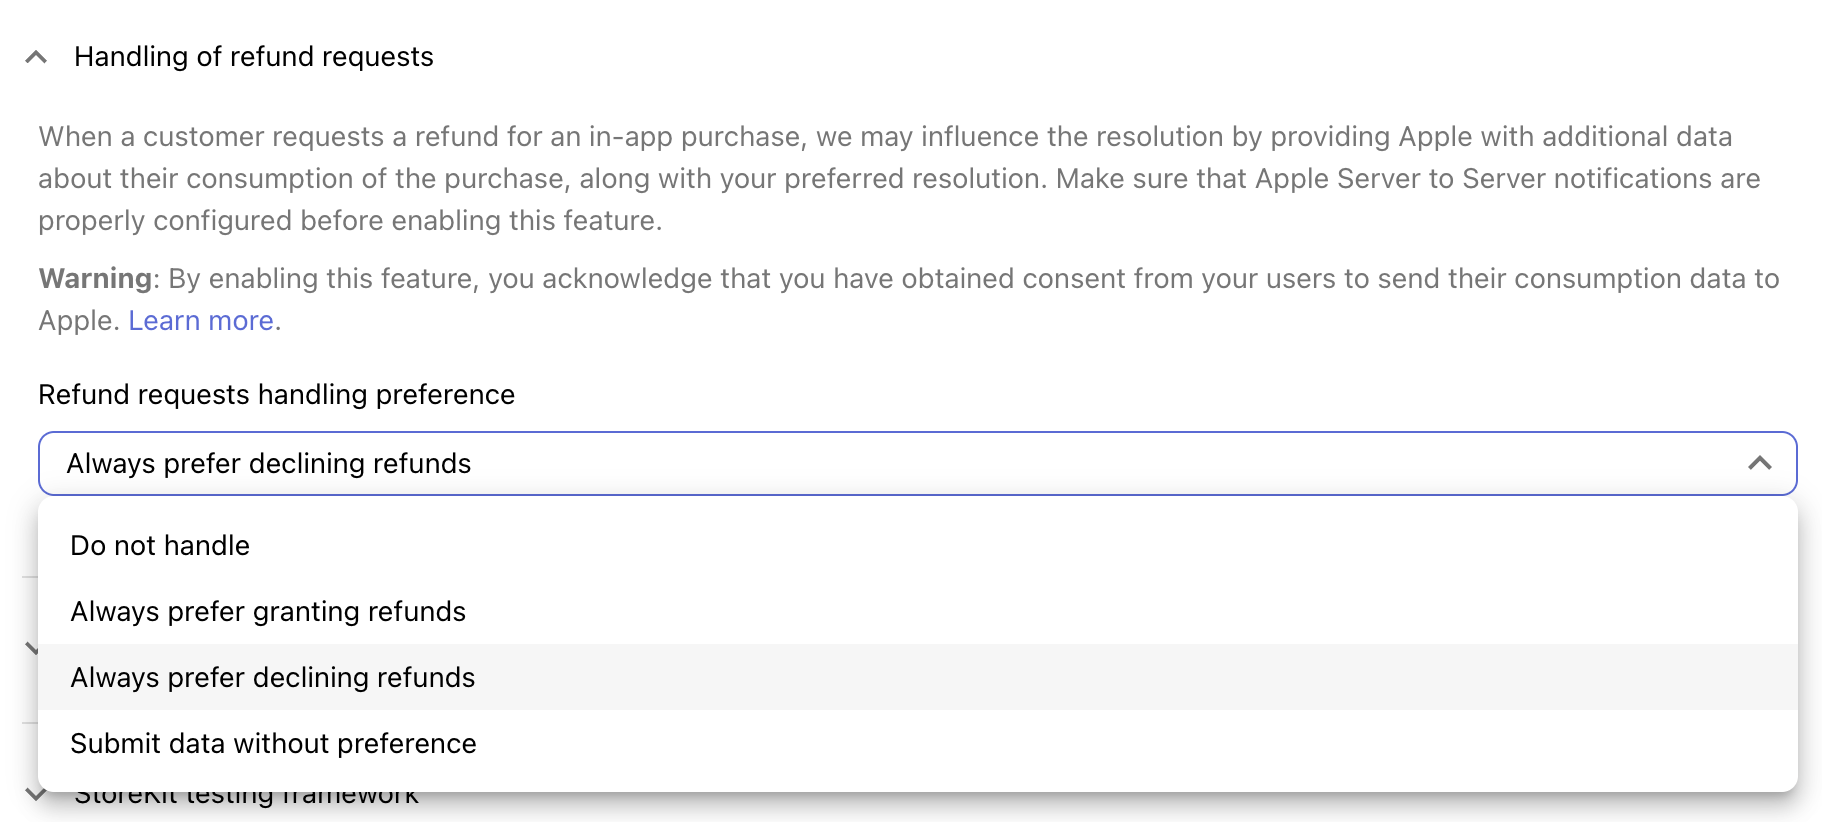
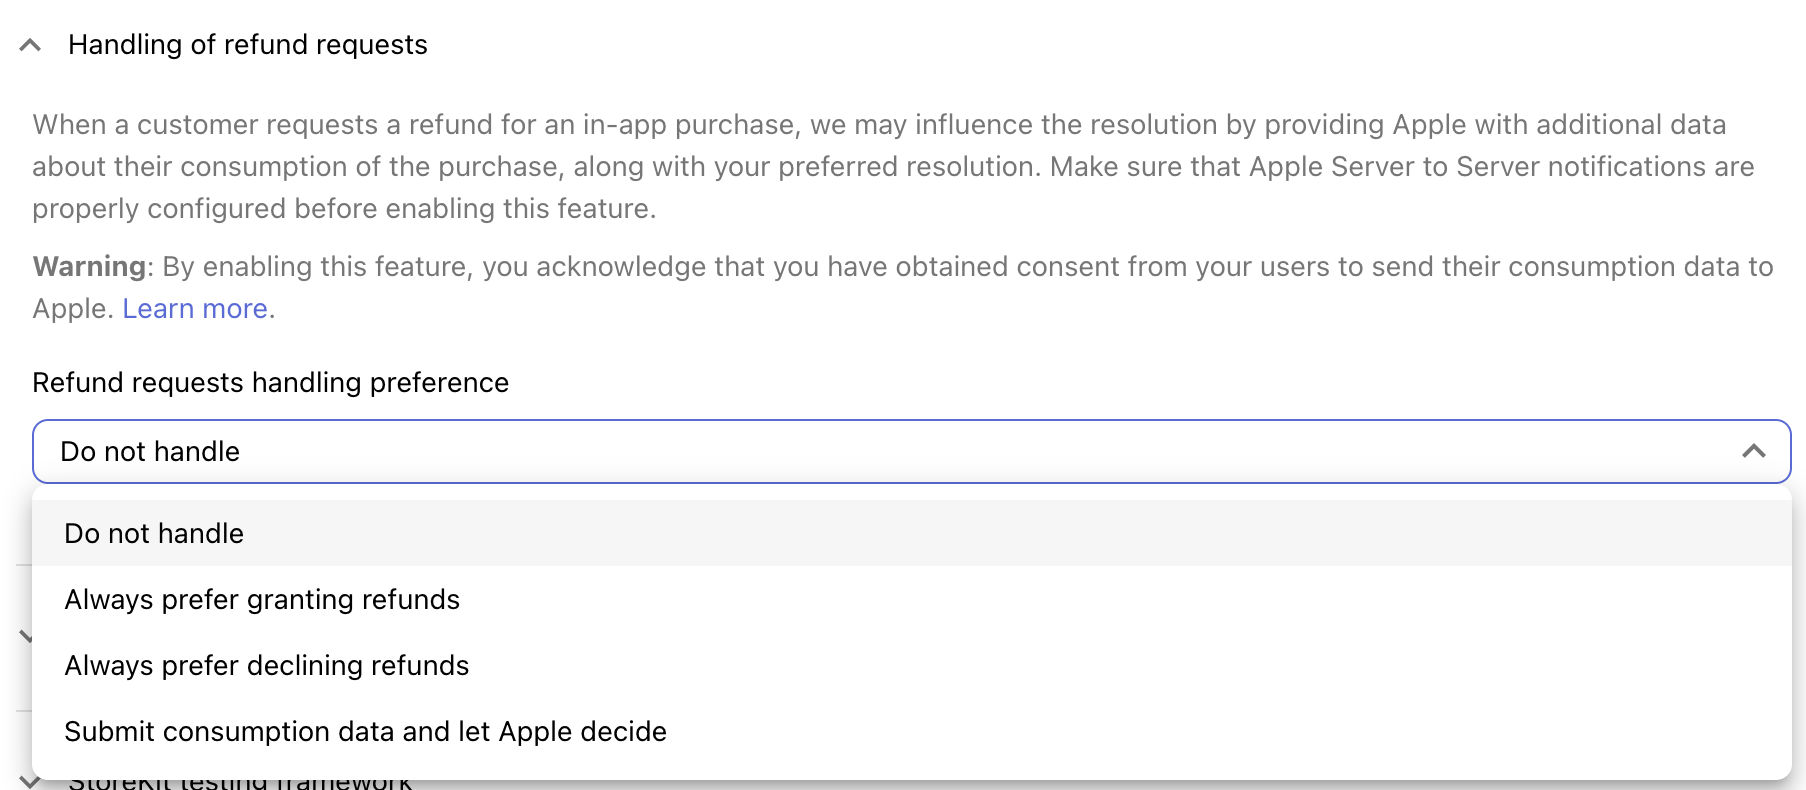
update screenshot and description

diff --git a/docs/platform-resources/apple-platform-resources/handling-refund-requests.md b/docs/platform-resources/apple-platform-resources/handling-refund-requests.md
@@ -22,7 +22,7 @@ For all refund requests, you can select from the following options:
 - **Do not handle**: RevenueCat will not respond to Apple's refund request on your behalf.
 - **Always prefer granting refunds**: You prefer that Apple grants the refund.
 - **Always prefer declining refunds**: You prefer that Apple declines the refund.
-- **Submit data without preference**: You have no preference regarding Apple's decision to grant or decline the refund.
+- **Submit consumption data and let Apple decide**: You have no preference regarding Apple's decision to grant or decline the refund.
 
 Choose the option that best fits the majority of your use cases.
 
